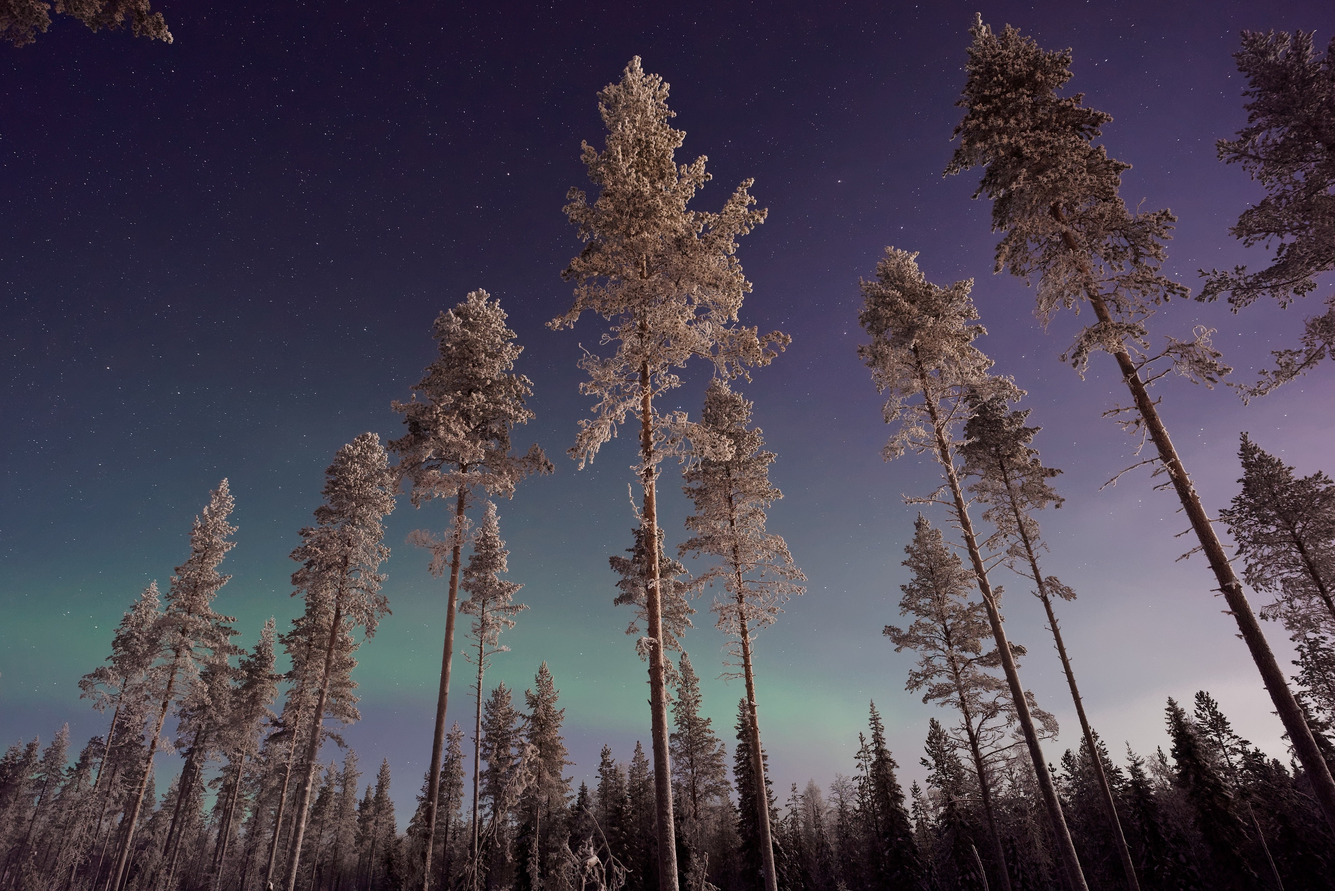
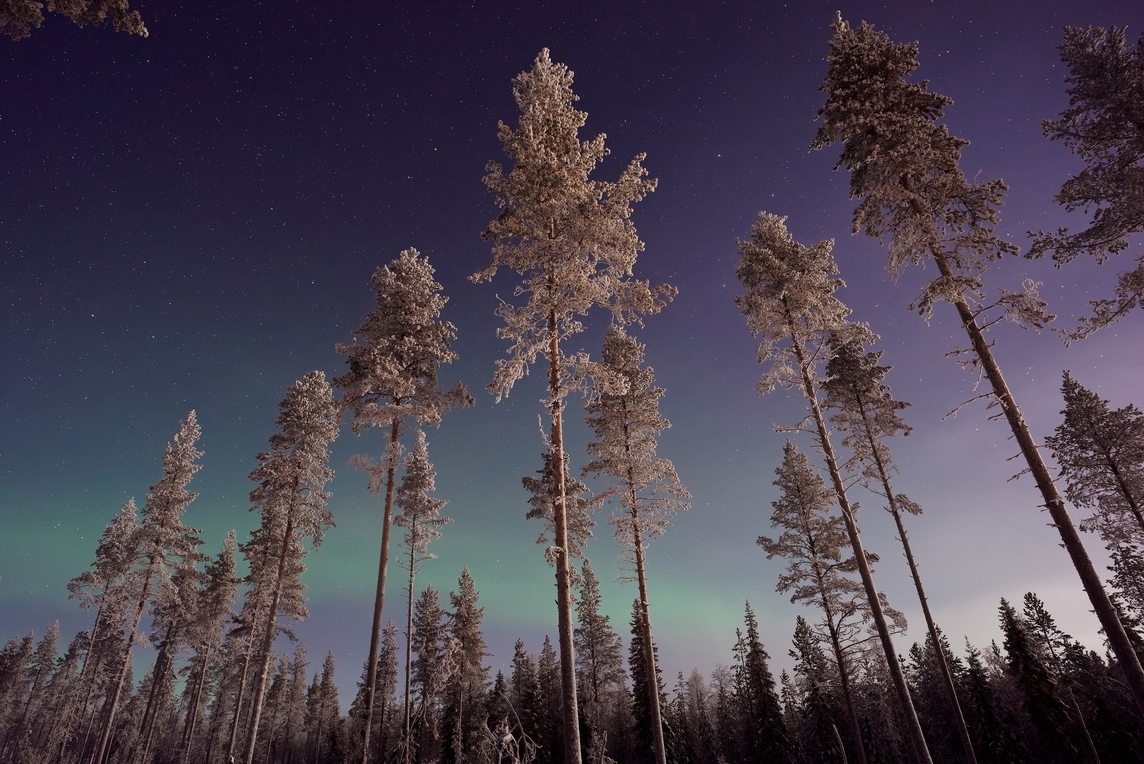
Optimise images
Optimise images

diff --git a/app.js b/app.js
@@ -1,6 +1,6 @@
 var fonts = ["Cookie", "Courgette", "Fredoka One", "Great Vibes",
             "Kaushan Script", "Pacifico", "Philosopher", "Playball",
-            "Tangerine", "Vidaloka"]
+            "Vidaloka"]
 
 var bg = ["img-one", "img-two", "img-three", "img-four", "img-five", "img-six"]
 
